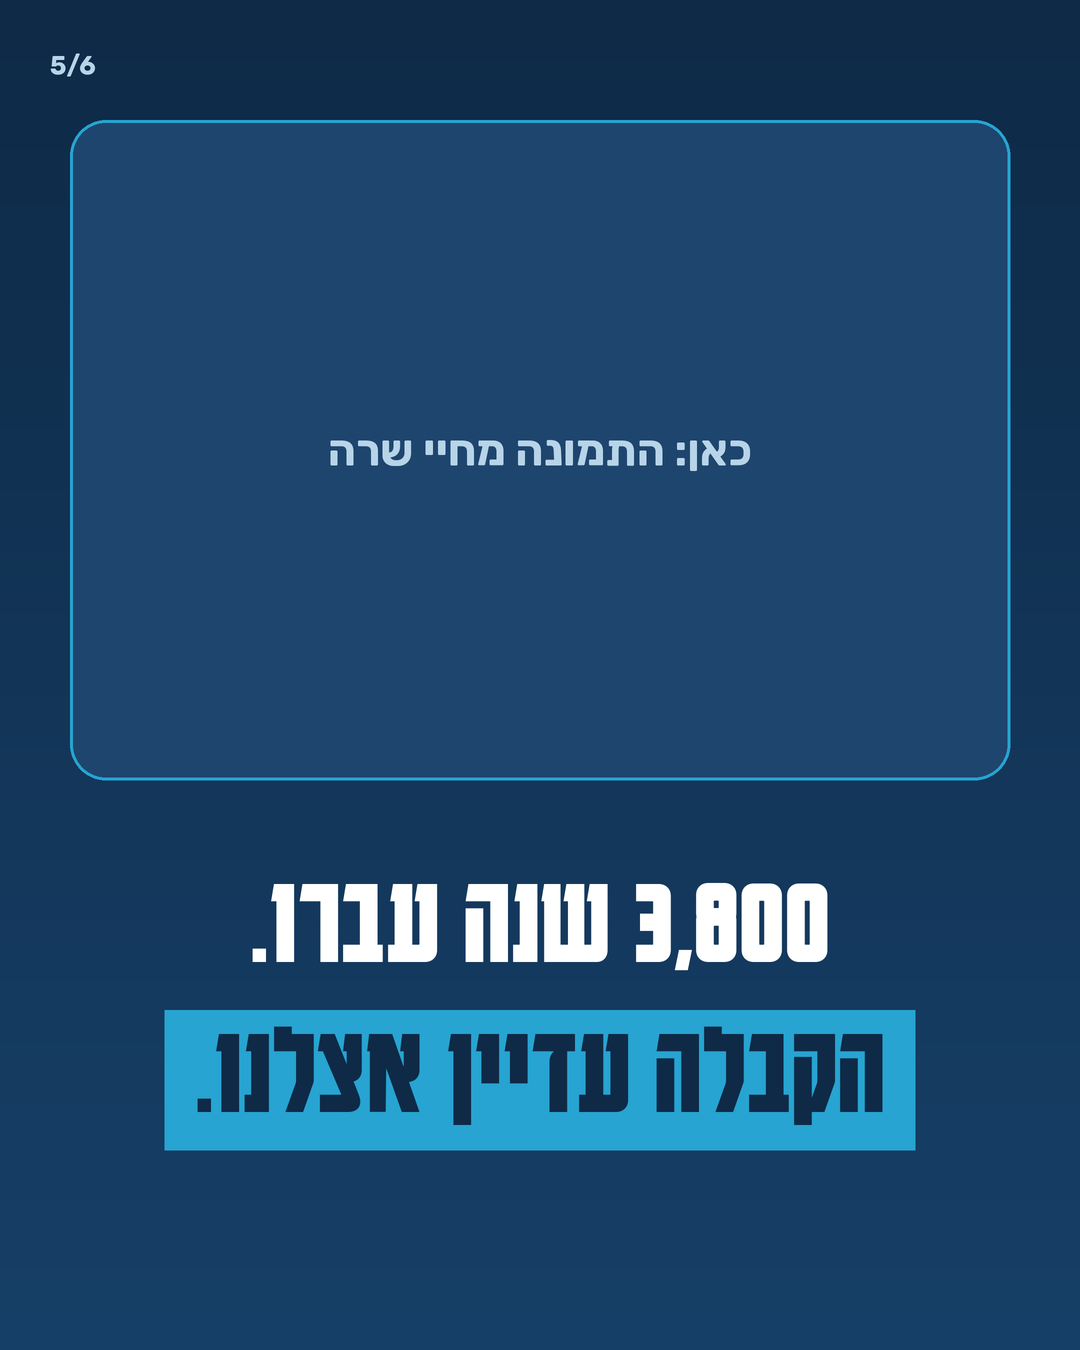
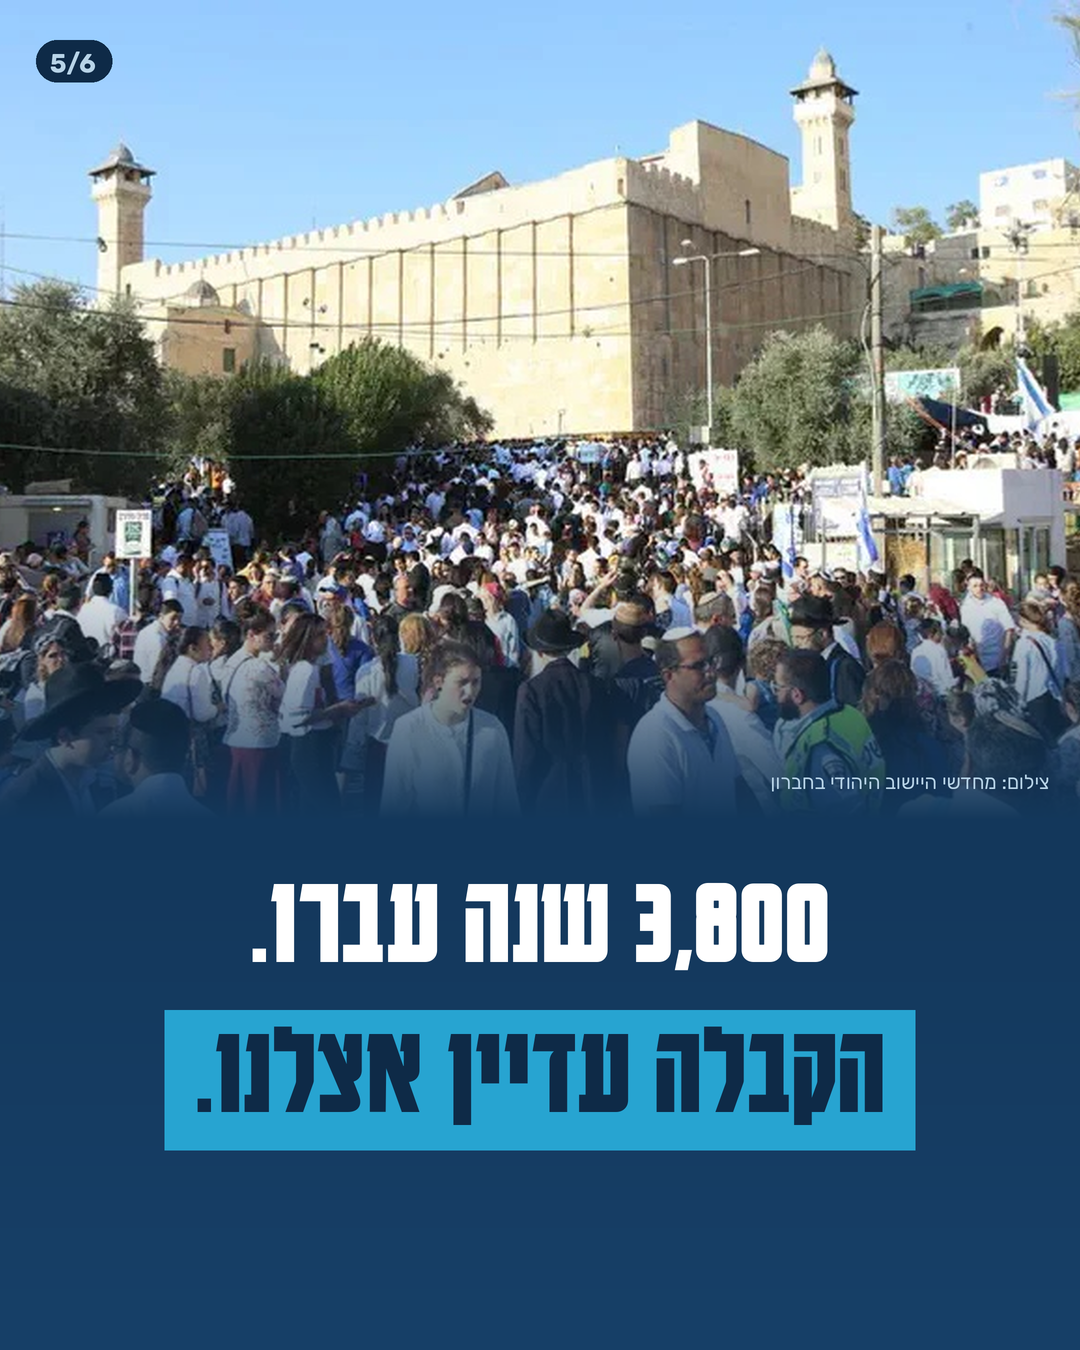
Yesha Hebron carousel: Chayei Sarah photo with credit
Claude-Session: https://claude.ai/code/session_01RS3QK6pAd3YhyAuXZSJjH1

diff --git a/content-kit/yesha/2026-11-hebron-chat-carousel/make.py b/content-kit/yesha/2026-11-hebron-chat-carousel/make.py
@@ -67,6 +67,7 @@ def s1():
     pim = cover(Image.open(PHOTO).convert('RGB'), pw, phh).convert('RGBA') if HAVE else illustration(pw, phh)
     m = Image.new('L', (pw, phh), 0); ImageDraw.Draw(m).rounded_rectangle((0, 0, pw - 1, phh + 40 * S), 24 * S, fill=255)
     img.paste(pim, P(ph[0], ph[1]), m); d = ImageDraw.Draw(img)
+    if HAVE: T(d, (x1 - 24, ph[3] - 36), 'צילום: מחדשי היישוב היהודי בחברון', RR, 20, (255, 255, 255), anchor='ra')
     d.rounded_rectangle(P(x1 - 230, y0 + 24, x1 - 24, y0 + 74), 8 * S, fill=ORANGE); T(d, (x1 - 127, y0 + 49), 'מודעה חדשה', RB, 26, WHITE, anchor='mm')
     for k in range(5): d.ellipse(P(W / 2 - 52 + k * 24, ph[3] - 30, W / 2 - 40 + k * 24, ph[3] - 18), fill=WHITE if k == 0 else (255, 255, 255, 150))
     y = ph[3] + 36; xr = x1 - 44
@@ -151,7 +152,8 @@ def s5():
         ph = cover(Image.open(PHOTO).convert('RGB'), W * S, 820 * S).convert('RGBA')
         fade = Image.new('L', ph.size, 255); fd = ImageDraw.Draw(fade)
         for y in range(ph.height): fd.line([(0, y), (ph.width, y)], fill=int(255 * min(1, (ph.height - y) / (260 * S))))
-        img.paste(ph, (0, 0), fade); d = ImageDraw.Draw(img); counter(d, 5, y=50)
+        img.paste(ph, (0, 0), fade); d = ImageDraw.Draw(img); d.rounded_rectangle(P(36, 40, 112, 82), 21 * S, fill=(14, 42, 71, 200)); counter(d, 5, y=48)
+        T(d, (W - 30, 770), 'צילום: מחדשי היישוב היהודי בחברון', RR, 20, SOFT, anchor='ra')
     else:
         d.rounded_rectangle(P(70, 120, W - 70, 780), 36 * S, fill=(0x1E, 0x45, 0x6E), outline=LB, width=3 * S)
         T(d, (W / 2, 450), 'כאן: התמונה מחיי שרה', RB, 44, SOFT, anchor='mm')
